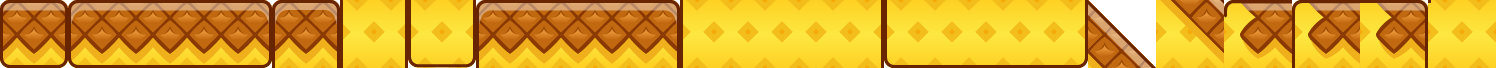
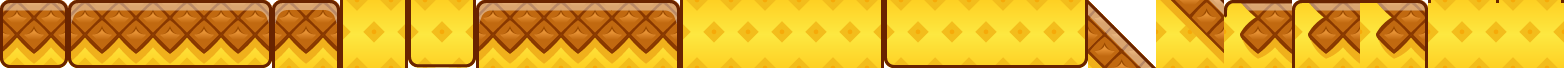
Sotto le colonne lo sprite 33

diff --git a/game.js b/game.js
@@ -50,7 +50,7 @@ function px(c,i,x,y,w,h,capo,meta){if(!PIXEL.complete)return;const s=c.imageSmoo
 const ERBANAN=new Image();ERBANAN.src='assets/erbananas.webp'; /* il ciuffo d'ananas dell'utente al posto del cespuglio nel mondo 1 */
 /* in grandezza vera, alla scala delle caselle da 68 del paesaggio: così il bordo scuro è spesso come quello del pavimento */
 function ciuffo(c,x,y,ts){const w=ERBANAN.width*ts/68,h=ERBANAN.height*ts/68;if(w)c.drawImage(ERBANAN,x-w/2,y-h,w,h);}
-const PAES=new Image();PAES.src='assets/paesaggio.webp';const PAES_RAMPA=16,PAES_SOTTO=17,PAES_BORDO={m:18,g:19,v:20},PAES_UNIONE=21; /* 17: la terra sotto una rampa a scalini, con la buccia della rampa dopo nell'angolo; 18-20: dove il piano finisce a sinistra, ai piedi di un muro più alto (m), con un gradino in giù (g) o sul vuoto (v); a destra si capovolgono, il bordo sul vuoto al contrario; 21: il muro accanto al bordo sul vuoto, dove le due linee si uniscono */
+const PAES=new Image();PAES.src='assets/paesaggio.webp';const PAES_RAMPA=16,PAES_SOTTO=17,PAES_BORDO={m:18,g:19,v:20},PAES_UNIONE=21,PAES_COLONNA=22; /* 17: la terra sotto una rampa a scalini, con la buccia della rampa dopo nell'angolo; 18-20: dove il piano finisce a sinistra, ai piedi di un muro più alto (m), con un gradino in giù (g) o sul vuoto (v); a destra si capovolgono, il bordo sul vuoto al contrario; 21: il muro accanto al bordo sul vuoto, dove le due linee si uniscono; 22: sotto una colonna, con il piano che arriva dai due lati */
 function paes(c,i,x,y,w,h,flip){const s=c.imageSmoothingEnabled;c.imageSmoothingEnabled=false;if(flip){c.save();c.translate(x+w,y);c.scale(-1,1);c.drawImage(PAES,i*68,0,68,68,0,0,w,h);c.restore();}else c.drawImage(PAES,i*68,0,68,68,x,y,w,h);c.imageSmoothingEnabled=s;}
 function sp(c,n,x,y,w,h,flip){if(n.startsWith('terrain_sand_')&&PAES.complete){const t=n.slice(13);if(t==='ramp_short_b'){paes(c,PAES_RAMPA,x,y,w,h,flip);return;}if(t in PIX){paes(c,PIX[t],x,y,w,h);return;}}
  const q=KMAP[n],im=q&&q[2]?KIT2:KIT;if(!q||!im.complete)return;if(flip){c.save();c.translate(x+w,y);c.scale(-1,1);c.drawImage(im,q[0],q[1],96,96,0,0,w,h);c.restore();}else c.drawImage(im,q[0],q[1],96,96,x,y,w,h);}
@@ -509,8 +509,8 @@ function nomeTile(x,y,k){
 function latoPiano(x,y){const muro=(i,j)=>solidoK(i,j)&&!'/%'.includes(cel(i,j)),caso=d=>muro(x+d,y)&&muro(x+d,y+1)?'m':solidoK(x+d,y)?null:solidoK(x+d,y-1)?'g':'v',l=caso(-1),r=caso(1);
  /* il bordo sul vuoto (v) solo se dall'altra parte c'è un muro, dove l'uncino si attacca: sui piani larghi il vuoto ha lo stesso pezzo del gradino */
  if(l&&r){if(l==='m'&&r!=='m')return[r,1];if(r==='m'&&l!=='m')return[l,-1];return l==='m'?[l,-1]:null;}return l?[l==='v'?'g':l,-1]:r?[r==='v'?'g':r,1]:null;}
-/* il piano in x,y finisce sul vuoto dal lato d (che è il lato da cui lo guarda il muro accanto) */
-function vuotoAMuro(x,y,d){if(cel(x,y)!=='#'||solidoK(x,y+1)||!(y<=0||solidoK(x,y-1)))return false;const b=latoPiano(x,y);return!!b&&b[0]==='v'&&b[1]===d;}
+/* il piano in x,y arriva al muro che sta dal lato -d: finisce lì (m) o finisce sul vuoto dal lato d (v) */
+function pianoAlMuro(x,y,d){if(cel(x,y)!=='#'||solidoK(x,y+1)||!(y<=0||solidoK(x,y-1)))return null;const b=latoPiano(x,y);return!b?null:b[0]==='v'&&b[1]===d?'v':b[0]==='m'&&b[1]===-d?'m':null;}
 function disegna2d(){
  const c=ctx2,m=MONDI[M.i],ts=V.ts,W=V.W,H=V.H,p=P2,k=m.kit,k0=k;
  c.setTransform(V.dpr,0,0,V.dpr,0,0);fondale(c,m);if(G.scossa>0)c.translate(rnd(-5,5)*G.scossa*2,rnd(-5,5)*G.scossa*2);
@@ -524,7 +524,8 @@ function disegna2d(){
   if(y<=0&&cel(x,0)!=='#'){if(M.boss&&(x<0||x>=M.w))continue;sp(c,m.liquido+(y===0?(lento?'_top':'_top_low'):''),a,b,mz,mz);continue;}
   const t=y<0?'#':cel(x,y);if(t===' ')continue;
   if(t==='#'){const r=cel(x,y+1),su=!solidoK(x,y+1);let bordo;if(k==='sand'&&PAES.complete&&((r==='%'&&'%#'.includes(cel(x+1,y)))||(r==='/'&&'/#'.includes(cel(x-1,y)))))paes(c,PAES_SOTTO,a,b,mz,mz,r==='/');
-  else if(k==='sand'&&PAES.complete&&!su&&(bordo=[-1,1].find(d=>vuotoAMuro(x+d,y,d))))paes(c,PAES_UNIONE,a,b,mz,mz,bordo>0);
+  else if(k==='sand'&&PAES.complete&&!su&&pianoAlMuro(x-1,y,-1)&&pianoAlMuro(x+1,y,1))paes(c,PAES_COLONNA,a,b,mz,mz);
+  else if(k==='sand'&&PAES.complete&&!su&&(bordo=[-1,1].find(d=>pianoAlMuro(x+d,y,d)==='v')))paes(c,PAES_UNIONE,a,b,mz,mz,bordo>0);
   else if(k==='sand'&&PAES.complete&&su&&(y<=0||solidoK(x,y-1))&&(bordo=latoPiano(x,y)))paes(c,PAES_BORDO[bordo[0]],a,b,mz,mz,(bordo[1]>0)!==(bordo[0]==='v'));else sp(c,nomeTile(x,y,k),a,b,mz,mz);}
   else if(t==='C')sp(c,'block_exclamation',a,b,mz,mz);
   else if(t==='D')sp(c,'lock_blue',a,b,mz,mz);

diff --git a/CLAUDE.md b/CLAUDE.md
@@ -6,12 +6,12 @@ Gioco per browser pensato per il telefono in orizzontale, pubblicato con GitHub 
 - `index.html`: solo il markup delle schermate (menu, guida, amici e skin, pausa, fine, HUD).
 - `style.css`: lo stile, con i colori come variabili su `:root`.
 - `game.js`: tutta la logica, in un unico script classico chiuso in una funzione e diviso in sezioni `/* ---------- NOME ---------- */`: orientamento, salvataggio, mondi e tappe, kit grafico e sonoro, skin, palla dipinta, audio, stato, comandi, cuori, corsa 2D, boss 2D, la bomba, guida, flusso, menu, ciclo.
-- `assets/`: `kit.webp` (atlante dei blocchi Kenney, coordinate in `KMAP`), `personaggio.webp`, `personaggio2.webp` e `personaggio3.webp` (fogli delle animazioni di Matteo; il terzo è Matteo stanco, con le stesse celle da 200 del secondo), `fumo.webp`, `polvere.webp`, `esplosione.webp`, `pizza.webp`, `kit2.webp` (altri pezzi del kit), `nemico_ananas.webp` (l'ananas arrabbiato dal foglio "Pineapple Tiles" CC0 dell'utente, nemico del mondo 1; degli altri pezzi di quel foglio l'utente non vuole niente, né per il terreno né per le grotte; il terreno ananas di `paesaggio.webp` è un'altra serie, che invece gli va bene), `paesaggio.webp` (terreno del mondo 1: buccia e polpa d'ananas disegnate dall'utente, caselle da 68 nello stesso ordine di `PIX`, poi la rampa (`sprite-20.png`), la terra sotto la rampa (`paesaggio.png`) e i lati del piano: ai piedi di un muro (`sprite-28.png`), gradino in giù (`sprite-29.png`) e bordo sul vuoto (`sprite-30.png`), poi il muro accanto al bordo sul vuoto (`sprite-32.png`); i pezzi singoli stanno in `paesaggio/`), `erbananas.webp` (ciuffo d'ananas dell'utente, al posto del cespuglio nei decori del mondo 1 e nel menu, disegnato da `ciuffo()` in grandezza vera, alla scala delle caselle da 68, perché il bordo scuro sia spesso come quello del pavimento. Largo più di 3 caselle, deve stare tutto sul piano: se sporge sul vuoto rientra un po' a sinistra (`d.dx`), e se non ci sta diventa erba; l'originale è `paesaggio/erbananas.png`), `pixel.webp` (caselle da 18: terra del kit Farm Expansion per le grotte), `bomba.webp` (Matteo carico al massimo: 37 fotogrammi da 160 in righe da 10, mappa in `disegnaBomba`), `boss_ananas.webp` (Ananassone: fotogrammi da 192x204 in righe da 8, 32-34 stordito, mappa in `disegnaAnanas` e `disegnaBoss`; gli altri due boss sono ancora disegnati nel codice in `BOSPR`), `fondi/*.webp`, `suoni/*.mp3`.
+- `assets/`: `kit.webp` (atlante dei blocchi Kenney, coordinate in `KMAP`), `personaggio.webp`, `personaggio2.webp` e `personaggio3.webp` (fogli delle animazioni di Matteo; il terzo è Matteo stanco, con le stesse celle da 200 del secondo), `fumo.webp`, `polvere.webp`, `esplosione.webp`, `pizza.webp`, `kit2.webp` (altri pezzi del kit), `nemico_ananas.webp` (l'ananas arrabbiato dal foglio "Pineapple Tiles" CC0 dell'utente, nemico del mondo 1; degli altri pezzi di quel foglio l'utente non vuole niente, né per il terreno né per le grotte; il terreno ananas di `paesaggio.webp` è un'altra serie, che invece gli va bene), `paesaggio.webp` (terreno del mondo 1: buccia e polpa d'ananas disegnate dall'utente, caselle da 68 nello stesso ordine di `PIX`, poi la rampa (`sprite-20.png`), la terra sotto la rampa (`paesaggio.png`) e i lati del piano: ai piedi di un muro (`sprite-28.png`), gradino in giù (`sprite-29.png`) e bordo sul vuoto (`sprite-30.png`), poi il muro accanto al bordo sul vuoto (`sprite-32.png`) e sotto una colonna (`sprite-33.png`); i pezzi singoli stanno in `paesaggio/`), `erbananas.webp` (ciuffo d'ananas dell'utente, al posto del cespuglio nei decori del mondo 1 e nel menu, disegnato da `ciuffo()` in grandezza vera, alla scala delle caselle da 68, perché il bordo scuro sia spesso come quello del pavimento. Largo più di 3 caselle, deve stare tutto sul piano: se sporge sul vuoto rientra un po' a sinistra (`d.dx`), e se non ci sta diventa erba; l'originale è `paesaggio/erbananas.png`), `pixel.webp` (caselle da 18: terra del kit Farm Expansion per le grotte), `bomba.webp` (Matteo carico al massimo: 37 fotogrammi da 160 in righe da 10, mappa in `disegnaBomba`), `boss_ananas.webp` (Ananassone: fotogrammi da 192x204 in righe da 8, 32-34 stordito, mappa in `disegnaAnanas` e `disegnaBoss`; gli altri due boss sono ancora disegnati nel codice in `BOSPR`), `fondi/*.webp`, `suoni/*.mp3`.
 - `tools/build.py`: ricompone tutto in `dist/cicciobomba.html`, un file unico con le risorse dentro, che si apre con un doppio clic. `dist/` è generata ed esclusa da git: non modificarla a mano.
 
 ## Regole
 - Testi, nomi di variabili e commenti in italiano. Il codice è compatto (righe lunghe, nomi brevi): mantieni lo stesso stile.
-- Grafica e suoni solo CC0 (Kenney: New Platformer Pack, Pixel Platformer, Pixel Platformer Farm Expansion) o disegnati nel codice. Il terreno del mondo 1 è il paesaggio ananas dell'utente: `sp()` disegna i nomi `terrain_sand_*` con le caselle di `paesaggio.webp` (indici di `PIX`, funzione `paes`), senza smussare i pixel. La rampa è una sola, che scende verso destra: quella che sale è la stessa capovolta. Sotto una rampa, se a lato c'è un'altra rampa o il piano, va la casella `PAES_SOTTO`, che porta nell'angolo la buccia della rampa dopo: così la buccia scende continua. Dove il piano con terra sotto finisce di lato, `latoPiano` sceglie in `PAES_BORDO`: `m` ai piedi di un muro di terra più alto (le rampe non contano come muro), `g` gradino in giù, `v` vuoto: il bordo sul vuoto solo se dall'altra parte c'è un muro più alto (lì l'uncino si attacca al muro), sui piani larghi il bordo sul vuoto usa lo stesso pezzo del gradino (`sprite-29.png`). Nella casella del muro accanto a quel bordo va `PAES_UNIONE` (`vuotoAMuro`), che unisce le due linee scure. Sono disegnati per il lato sinistro e a destra si capovolgono; il bordo sul vuoto al contrario, perché la buccia stia dal lato del vuoto. Le piattaforme sospese tengono i loro pezzi. Un nuovo asset va in `assets/` e si richiama con un percorso scritto per intero tra apici (`'assets/...'`), altrimenti `build.py` non lo mette nel file unico.
+- Grafica e suoni solo CC0 (Kenney: New Platformer Pack, Pixel Platformer, Pixel Platformer Farm Expansion) o disegnati nel codice. Il terreno del mondo 1 è il paesaggio ananas dell'utente: `sp()` disegna i nomi `terrain_sand_*` con le caselle di `paesaggio.webp` (indici di `PIX`, funzione `paes`), senza smussare i pixel. La rampa è una sola, che scende verso destra: quella che sale è la stessa capovolta. Sotto una rampa, se a lato c'è un'altra rampa o il piano, va la casella `PAES_SOTTO`, che porta nell'angolo la buccia della rampa dopo: così la buccia scende continua. Dove il piano con terra sotto finisce di lato, `latoPiano` sceglie in `PAES_BORDO`: `m` ai piedi di un muro di terra più alto (le rampe non contano come muro), `g` gradino in giù, `v` vuoto: il bordo sul vuoto solo se dall'altra parte c'è un muro più alto (lì l'uncino si attacca al muro), sui piani larghi il bordo sul vuoto usa lo stesso pezzo del gradino (`sprite-29.png`). Nella casella del muro accanto a quel bordo va `PAES_UNIONE`, che unisce le due linee scure; sotto una colonna, con il piano che arriva dai due lati, va `PAES_COLONNA` (tutte e due con `pianoAlMuro`). Sono disegnati per il lato sinistro e a destra si capovolgono; il bordo sul vuoto al contrario, perché la buccia stia dal lato del vuoto. Le piattaforme sospese tengono i loro pezzi. Un nuovo asset va in `assets/` e si richiama con un percorso scritto per intero tra apici (`'assets/...'`), altrimenti `build.py` non lo mette nel file unico.
 - Il salvataggio sta nel `localStorage` con chiave `rotolamici-v1`. Se cambi la struttura di `S`, gestisci i salvataggi vecchi.
 - `VITE_INFINITE` in `game.js` è un'impostazione per le prove: con `true` non si perdono cuori. Va lasciata `false`.
 - Quello che va su `main` finisce subito online su GitHub Pages: si pubblica solo dopo averlo provato.
